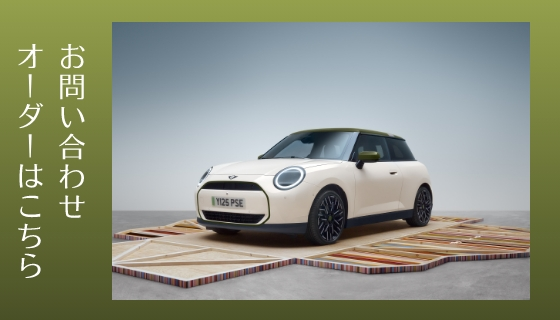
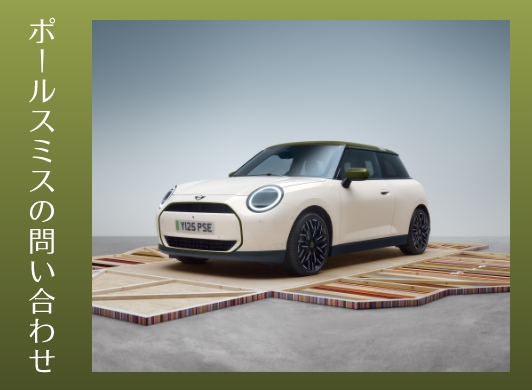
no message

diff --git a/260713MINI/static/css/style.css b/260713MINI/static/css/style.css
@@ -230,7 +230,7 @@ End-responsible-contents  only-pc
 #fixed{
   position: fixed;
   bottom: 260px;
-  right: -272px;
+  right: -224px;
   z-index: 10000;
   opacity: 1;
   transition: 0.5s ease;
@@ -253,7 +253,7 @@ End-responsible-contents  only-pc
 }
 .fixed-banner {
  display: none;
-  width: 340px;
+  width: 270px;
   height: auto;
 }
 .fixed-banner a{